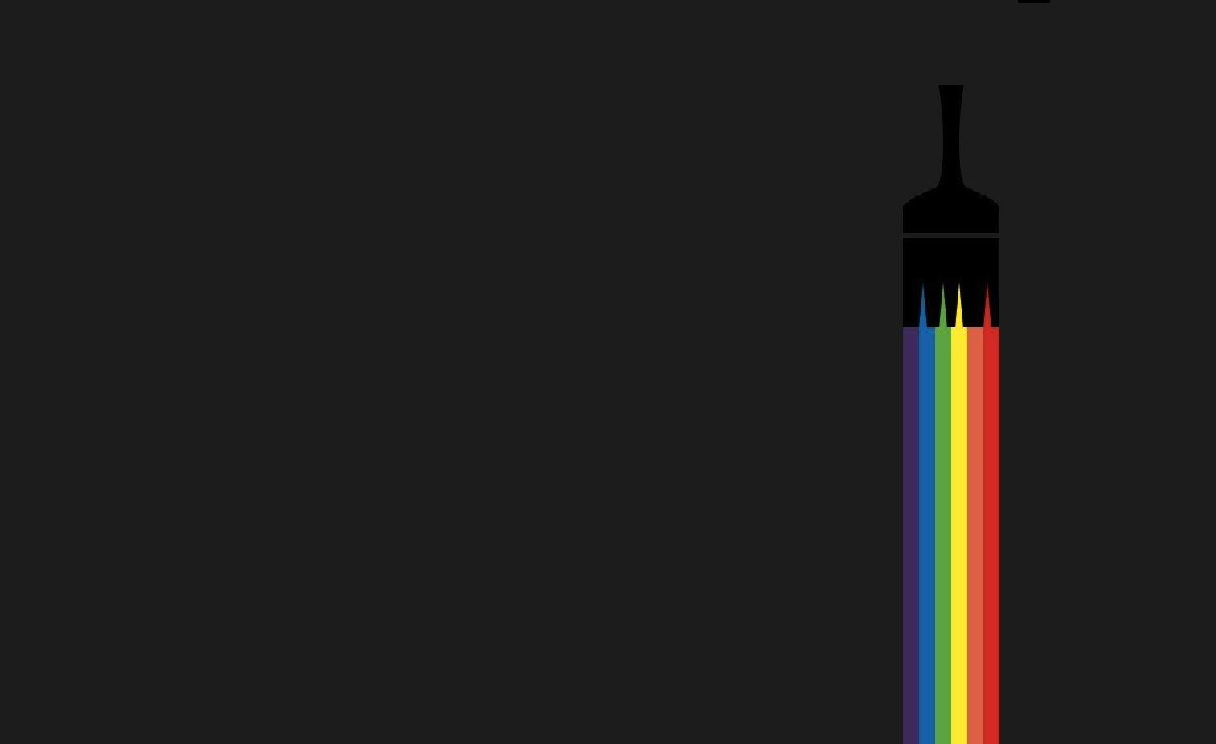
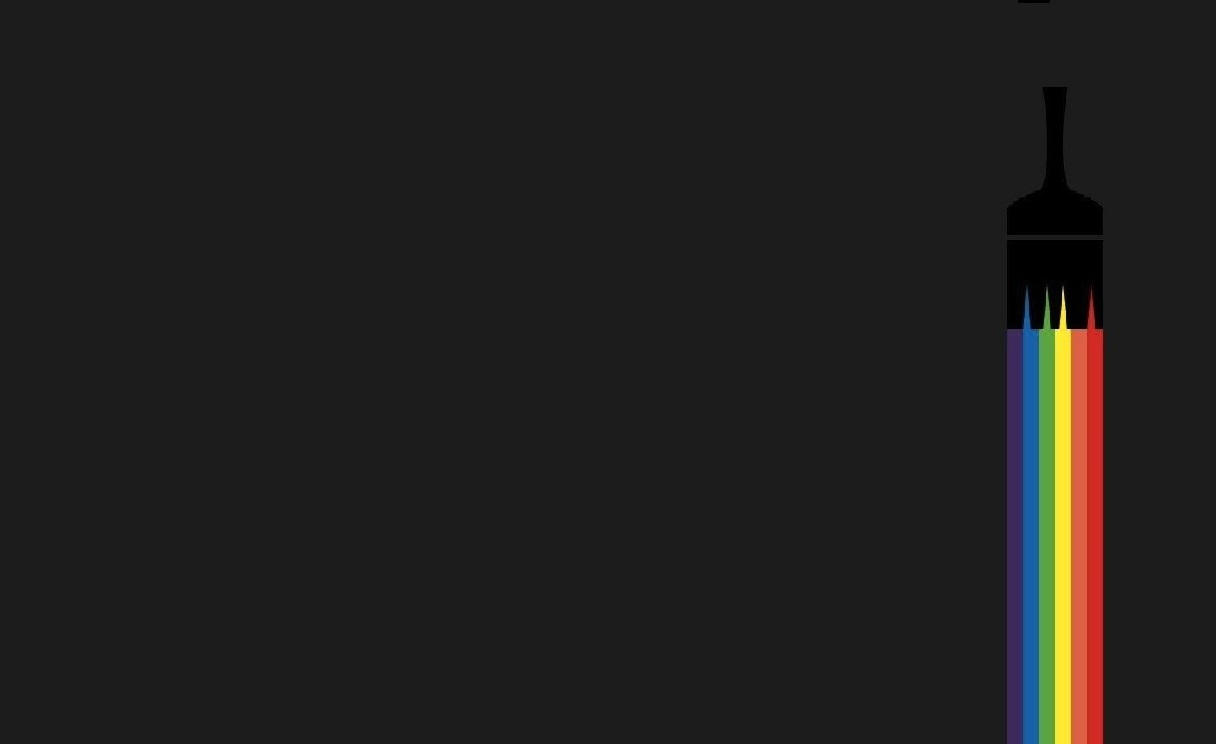
CLOSING

Changed region(s): [[0.7188, 0.0927, 0.9062, 1.0]]

diff --git a/style.css b/style.css
@@ -173,15 +173,15 @@ html{
 #register{
     background-image: url(images/paint-new.png);
     background-repeat: no-repeat;
-    background-position: center;
+    background-position:25% 75%;
     background-size: cover;
-    height:auto;
+    height:500px;
     padding-bottom:50px;
 }
 
 #registertext{
     position:relative;
-    top:100px;
+    top:150px;
     margin-left:50%;
     transform:translateX(-50%);
     padding-top:30px;
@@ -210,14 +210,6 @@ text-decoration: none;
     padding-top: 56.25%;
 }
 
-.resp-iframe {
-    position: absolute;
-    top: 0;
-    left: 0;
-    width: 100%;
-    height:100%;
-    border: 0;
-}
 
 /* ----------About---------------*/
 

diff --git a/index.html b/index.html
@@ -147,8 +147,7 @@
                     <h2 id="registertext">REGISTRATION CLOSED</h2>
                     
                     <div class="resp-container">
-                    <iframe class="resp-iframe" src="https://docs.google.com/forms/d/e/1FAIpQLScW9kNTg4IAOVYCyHldLD-wTVhOGpxC3H_z4RlXsmgq1pS75w/viewform?embedded=true" 
-                    width="640" height="1230" frameborder="0" marginheight="0" marginwidth="0">Loading…</iframe>   
+                   
                   </div>  
                   </div>
 
